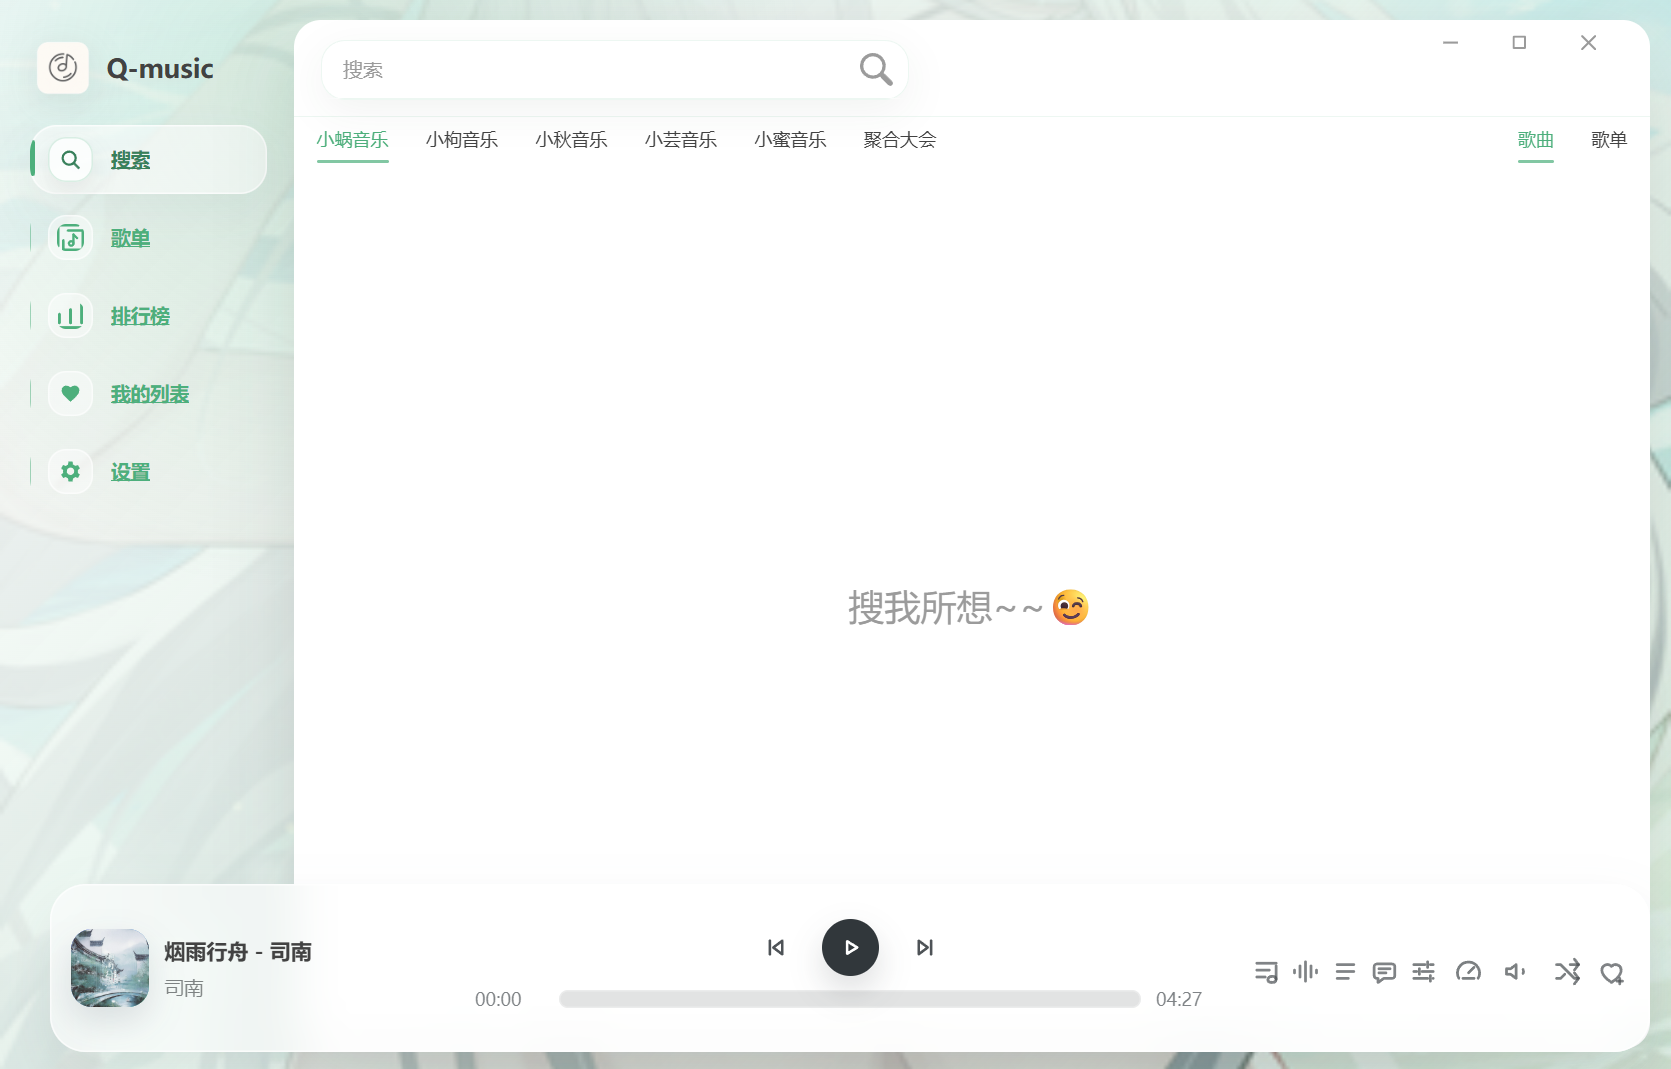
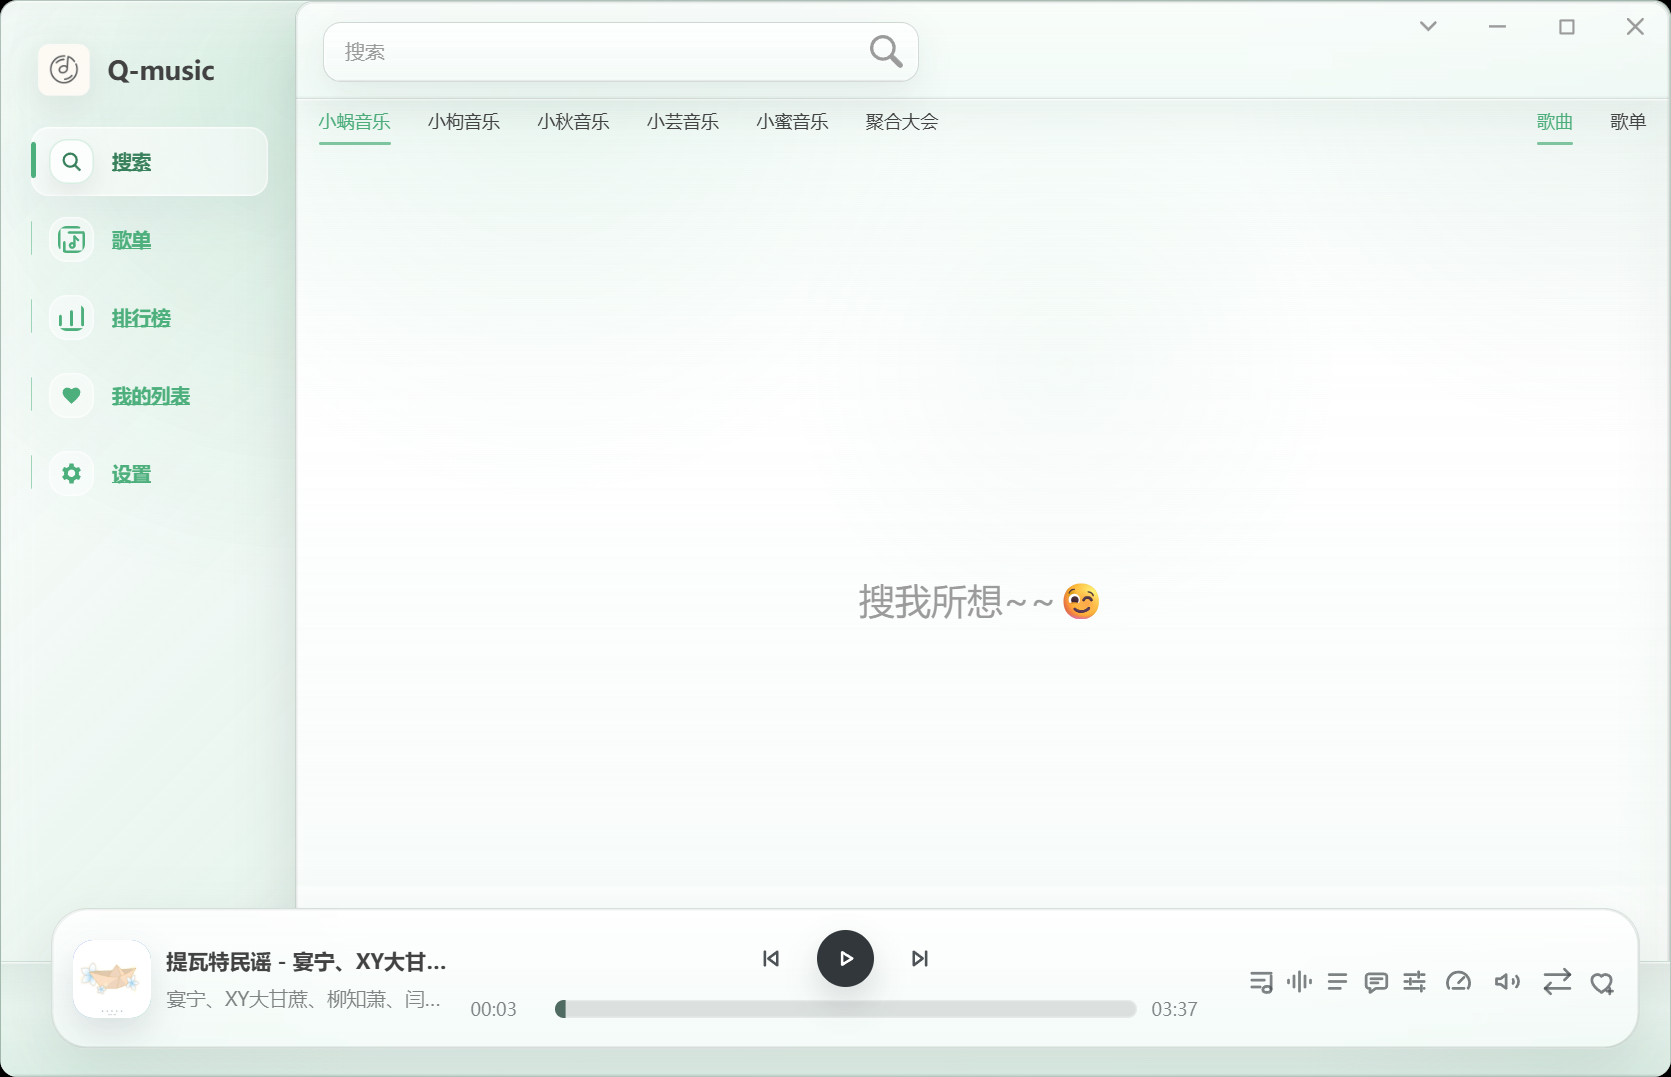
docs: update readme screenshot

diff --git a/README.md b/README.md
@@ -73,7 +73,7 @@ npm run pack
 Windows x64 安装包默认输出到：
 
 ```text
-build/Q-music-v0.1.4-x64-Setup.exe
+build/Q-music-v0.1.7-x64-Setup.exe
 ```
 
 ## 贡献代码